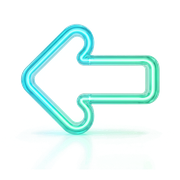
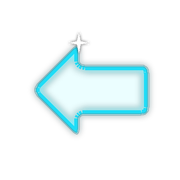
feat: make arrows calmer with diamond star sparkle, remove floor shade, enlarge modal photos, and unify arrows across all app carousels

Changed region(s): [[0.1111, 0.1111, 0.8889, 0.8611]]

diff --git a/public/styles.css b/public/styles.css
@@ -2543,10 +2543,10 @@ body {
   transform: translateY(-50%);
   width: 40px;
   height: 40px;
-  background: rgba(10, 14, 20, 0.28);
-  backdrop-filter: blur(8px);
-  -webkit-backdrop-filter: blur(8px);
-  border: 1px solid rgba(255, 255, 255, 0.12);
+  background: rgba(10, 14, 20, 0.22);
+  backdrop-filter: blur(6px);
+  -webkit-backdrop-filter: blur(6px);
+  border: none;
   border-radius: 50%;
   display: flex;
   align-items: center;
@@ -2554,7 +2554,7 @@ body {
   cursor: pointer;
   z-index: 5;
   transition: all 0.22s cubic-bezier(0.16, 1, 0.3, 1);
-  box-shadow: 0 4px 14px rgba(0, 0, 0, 0.4);
+  box-shadow: 0 4px 12px rgba(0, 0, 0, 0.35);
   opacity: 0;
   padding: 0;
 }
@@ -2564,10 +2564,9 @@ body {
 }
 
 .prop-carousel-btn:hover {
-  background: rgba(10, 14, 20, 0.55);
-  border-color: rgba(0, 242, 254, 0.45);
+  background: rgba(10, 14, 20, 0.52);
   transform: translateY(-50%) scale(1.15);
-  box-shadow: 0 6px 18px rgba(0, 0, 0, 0.55), 0 0 14px rgba(0, 242, 254, 0.4);
+  box-shadow: 0 6px 16px rgba(0, 0, 0, 0.5);
 }
 
 .prop-carousel-arrow-glass {
@@ -2699,7 +2698,8 @@ body {
 
 /* Detail Modal Styles */
 .property-modal-card {
-  max-width: 860px;
+  max-width: 1040px;
+  width: 92vw;
 }
 
 .prop-gallery-wrapper {
@@ -2708,11 +2708,18 @@ body {
 
 .prop-main-photo-wrap {
   width: 100%;
-  aspect-ratio: 16 / 9;
-  border-radius: 14px;
+  height: 500px;
+  max-height: 520px;
+  border-radius: 16px;
   overflow: hidden;
   position: relative;
   background: #0f1013;
+}
+
+@media (max-width: 768px) {
+  .prop-main-photo-wrap {
+    height: 320px;
+  }
 }
 
 .prop-main-photo-wrap img {
@@ -2725,23 +2732,36 @@ body {
   position: absolute;
   top: 50%;
   transform: translateY(-50%);
-  width: 40px;
-  height: 40px;
+  width: 44px;
+  height: 44px;
   border-radius: 50%;
-  background: rgba(0, 0, 0, 0.65);
+  background: rgba(10, 14, 20, 0.24);
   backdrop-filter: blur(8px);
-  color: #ffffff;
-  border: 1px solid rgba(255, 255, 255, 0.2);
+  -webkit-backdrop-filter: blur(8px);
+  border: none;
   display: flex;
   align-items: center;
   justify-content: center;
-  font-size: 1.5rem;
   cursor: pointer;
-  z-index: 3;
+  z-index: 4;
+  padding: 0;
+  transition: all 0.22s cubic-bezier(0.16, 1, 0.3, 1);
+  box-shadow: 0 4px 14px rgba(0, 0, 0, 0.35);
+}
+
+.gallery-nav-btn:hover {
+  background: rgba(10, 14, 20, 0.55);
+  transform: translateY(-50%) scale(1.15);
+  box-shadow: 0 6px 18px rgba(0, 0, 0, 0.5);
 }
 
 .gallery-nav-btn.prev-btn { left: 1rem; }
 .gallery-nav-btn.next-btn { right: 1rem; }
+
+.gallery-nav-btn .prop-carousel-arrow-glass {
+  width: 30px;
+  height: 30px;
+}
 
 .photo-counter-badge {
   position: absolute;
@@ -4626,26 +4646,27 @@ body {
   position: absolute;
   top: 50%;
   transform: translateY(-50%);
-  width: 38px;
-  height: 38px;
+  width: 40px;
+  height: 40px;
   border-radius: 50%;
-  background: rgba(0, 0, 0, 0.65);
-  backdrop-filter: blur(8px);
-  color: #ffffff;
-  border: 1px solid rgba(255, 255, 255, 0.2);
+  background: rgba(10, 14, 20, 0.22);
+  backdrop-filter: blur(6px);
+  -webkit-backdrop-filter: blur(6px);
+  border: none;
   display: flex;
   align-items: center;
   justify-content: center;
-  font-size: 1.3rem;
   cursor: pointer;
-  transition: all 0.15s ease;
+  transition: all 0.2s ease;
   z-index: 5;
+  padding: 0;
+  box-shadow: 0 4px 12px rgba(0, 0, 0, 0.35);
 }
 
 .carousel-arrow:hover {
-  background: rgba(0, 0, 0, 0.9);
-  border-color: rgba(255, 255, 255, 0.5);
-  transform: translateY(-50%) scale(1.06);
+  background: rgba(10, 14, 20, 0.52);
+  transform: translateY(-50%) scale(1.15);
+  box-shadow: 0 6px 16px rgba(0, 0, 0, 0.5);
 }
 
 .carousel-arrow-left {

diff --git a/mobile/src/screens/InvestmentsScreen.tsx b/mobile/src/screens/InvestmentsScreen.tsx
@@ -1276,6 +1276,38 @@ export const InvestmentsScreen: React.FC = () => {
                   cachePolicy="memory-disk"
                   priority="high"
                 />
+                {selectedListing.images && selectedListing.images.length > 1 && (
+                  <>
+                    <TouchableOpacity
+                      style={[styles.carouselBtn, styles.carouselPrevBtn, { zIndex: 6 }]}
+                      onPress={() =>
+                        setActivePhotoIndex(
+                          (activePhotoIndex - 1 + selectedListing.images.length) % selectedListing.images.length
+                        )
+                      }
+                      activeOpacity={0.7}
+                    >
+                      <Image
+                        source={{ uri: `${API_BASE_URL}/investments/icons/arrow_left_glass.png` }}
+                        style={{ width: 26, height: 26, resizeMode: 'contain' }}
+                      />
+                    </TouchableOpacity>
+                    <TouchableOpacity
+                      style={[styles.carouselBtn, styles.carouselNextBtn, { zIndex: 6 }]}
+                      onPress={() =>
+                        setActivePhotoIndex(
+                          (activePhotoIndex + 1) % selectedListing.images.length
+                        )
+                      }
+                      activeOpacity={0.7}
+                    >
+                      <Image
+                        source={{ uri: `${API_BASE_URL}/investments/icons/arrow_right_glass.png` }}
+                        style={{ width: 26, height: 26, resizeMode: 'contain' }}
+                      />
+                    </TouchableOpacity>
+                  </>
+                )}
                 <View style={styles.galleryIndexBadge}>
                   <Text style={styles.galleryIndexText}>
                     {activePhotoIndex + 1} / {selectedListing.images ? selectedListing.images.length : 1}
@@ -2421,15 +2453,13 @@ const styles = StyleSheet.create({
     width: 38,
     height: 38,
     borderRadius: 19,
-    backgroundColor: 'rgba(10, 14, 20, 0.32)',
-    borderWidth: 1,
-    borderColor: 'rgba(255, 255, 255, 0.12)',
+    backgroundColor: 'rgba(10, 14, 20, 0.22)',
     alignItems: 'center',
     justifyContent: 'center',
     zIndex: 5,
     shadowColor: '#00f2fe',
     shadowOffset: { width: 0, height: 2 },
-    shadowOpacity: 0.3,
+    shadowOpacity: 0.25,
     shadowRadius: 5,
     elevation: 4,
   },
@@ -2880,7 +2910,7 @@ const styles = StyleSheet.create({
   },
   galleryPrimaryImage: {
     width: '100%',
-    height: 260,
+    height: 330,
     resizeMode: 'cover',
   },
   galleryIndexBadge: {

diff --git a/public/app.js b/public/app.js
@@ -451,8 +451,8 @@ function renderCommunityFeed() {
                ontouchend="handleCarouselTouchEnd(event, '${post.id}')">
             <img src="${activePhoto.url}" alt="Post photo" class="community-carousel-img">
             ${hasMultiple ? `
-              <button type="button" class="carousel-arrow carousel-arrow-left" onclick="handleCommunityPhotoPrev('${post.id}')" title="Previous photo"><svg width="14" height="14" viewBox="0 0 20 20" fill="none" stroke="currentColor" stroke-width="2" stroke-linecap="round" stroke-linejoin="round"><path d="M14 10H6M10 6l-4 4 4 4"/></svg></button>
-              <button type="button" class="carousel-arrow carousel-arrow-right" onclick="handleCommunityPhotoNext('${post.id}')" title="Next photo"><svg width="14" height="14" viewBox="0 0 20 20" fill="none" stroke="currentColor" stroke-width="2" stroke-linecap="round" stroke-linejoin="round"><path d="M6 10h8M10 6l4 4-4 4"/></svg></button>
+              <button type="button" class="carousel-arrow carousel-arrow-left" onclick="handleCommunityPhotoPrev('${post.id}')" title="Previous photo"><img src="/investments/icons/arrow_left_glass.png" class="prop-carousel-arrow-glass" alt="‹"></button>
+              <button type="button" class="carousel-arrow carousel-arrow-right" onclick="handleCommunityPhotoNext('${post.id}')" title="Next photo"><img src="/investments/icons/arrow_right_glass.png" class="prop-carousel-arrow-glass" alt="›"></button>
               <div class="carousel-counter-badge">
                 <span>${curIdx + 1} / ${photoAttachments.length}</span>
               </div>

diff --git a/public/index.html b/public/index.html
@@ -1231,9 +1231,13 @@
         <!-- Main Image Gallery with Carousel Arrows & Thumbnails -->
         <div class="prop-gallery-wrapper">
           <div class="prop-main-photo-wrap">
-            <button class="gallery-nav-btn prev-btn" onclick="prevPropModalPhoto()">‹</button>
+            <button class="gallery-nav-btn prev-btn" onclick="prevPropModalPhoto()" title="Previous photo">
+              <img src="/investments/icons/arrow_left_glass.png" class="prop-carousel-arrow-glass" alt="‹">
+            </button>
             <img id="propModalMainPhoto" src="" alt="Property Photo">
-            <button class="gallery-nav-btn next-btn" onclick="nextPropModalPhoto()">›</button>
+            <button class="gallery-nav-btn next-btn" onclick="nextPropModalPhoto()" title="Next photo">
+              <img src="/investments/icons/arrow_right_glass.png" class="prop-carousel-arrow-glass" alt="›">
+            </button>
             <div id="propModalPhotoCount" class="photo-counter-badge">1 / 1</div>
           </div>
           <div id="propModalThumbnails" class="prop-thumbnails-row"></div>

diff --git a/tools/process_filter_icons.py b/tools/process_filter_icons.py
@@ -70,49 +70,92 @@ for name, src in icon_mapping.items():
     mobile_out = os.path.join(mobile_dir, name)
     remove_white_bg(src, mobile_out)
 
-# Process 3D translucent glass neon contour arrows
-from PIL import ImageOps
-src_arrow = '/Users/bikram6am/.gemini/antigravity-ide/brain/e937d090-7538-4833-bb53-358d42566df1/arrow_left_glass_neon_1791741342305.jpg'
-if os.path.exists(src_arrow):
-    im_left = Image.open(src_arrow).convert('RGBA')
-    im_right = ImageOps.mirror(im_left)
+# Process 3D translucent glass neon contour arrows with diamond star sparkle (NO floor shade/reflection)
+import math
+from PIL import ImageDraw, ImageFilter, ImageOps
 
-    def process_clean_arrow(img, out_name):
-        arr = np.array(img, dtype=np.float32)
-        r, g, b = arr[:,:,0], arr[:,:,1], arr[:,:,2]
-        max_c = np.maximum(np.maximum(r, g), b)
-        min_c = np.minimum(np.minimum(r, g), b)
-        chroma = max_c - min_c
-        darkness = 255.0 - ((r + g + b) / 3.0)
-        tube_weight = np.clip((chroma - 8.0) / 15.0, 0, 1)
-        dark_weight = np.clip((darkness - 15.0) / 25.0, 0, 1)
-        strength = np.maximum(tube_weight, dark_weight)
-        alpha = np.clip(strength * 255.0, 0, 255)
-        arr[:,:,3] = alpha
-        result = Image.fromarray(arr.astype(np.uint8), mode='RGBA')
-        bbox = result.getbbox()
-        if bbox:
-            w = bbox[2] - bbox[0]
-            h = bbox[3] - bbox[1]
-            pad = int(max(w, h) * 0.03)
-            crop_box = (
-                max(0, bbox[0] - pad),
-                max(0, bbox[1] - pad),
-                min(result.width, bbox[2] + pad),
-                min(result.height, bbox[3] + pad)
-            )
-            result = result.crop(crop_box)
-        target_size = (180, 180)
-        max_dim = max(result.width, result.height)
-        square_im = Image.new('RGBA', (max_dim, max_dim), (0, 0, 0, 0))
-        offset = ((max_dim - result.width) // 2, (max_dim - result.height) // 2)
-        square_im.paste(result, offset)
-        final_im = square_im.resize(target_size, Image.Resampling.LANCZOS)
-        final_im.save(os.path.join(dest_dir, out_name), format='PNG', optimize=True)
-        final_im.save(os.path.join(mobile_dir, out_name), format='PNG', optimize=True)
-        print(f"Processed: {out_name}")
+def create_glass_sparkle_arrow(is_left=True):
+    W, H = 400, 400
+    im = Image.new('RGBA', (W, H), (0, 0, 0, 0))
+    
+    def fillet_points():
+        anchors = [
+            (175, 95),   # 0: top fin
+            (70, 200),   # 1: tip
+            (175, 305),  # 2: bottom fin
+            (175, 255),  # 3: bottom neck
+            (330, 255),  # 4: bottom right
+            (330, 145),  # 5: top right
+            (175, 145)   # 6: top neck
+        ]
+        radii = [18, 22, 18, 14, 18, 18, 14]
+        dense_pts = []
+        n = len(anchors)
+        for i in range(n):
+            p_prev = anchors[(i - 1) % n]
+            p_curr = anchors[i]
+            p_next = anchors[(i + 1) % n]
+            v1 = (p_prev[0] - p_curr[0], p_prev[1] - p_curr[1])
+            v2 = (p_next[0] - p_curr[0], p_next[1] - p_curr[1])
+            l1 = math.hypot(*v1)
+            l2 = math.hypot(*v2)
+            u1 = (v1[0]/l1, v1[1]/l1)
+            u2 = (v2[0]/l2, v2[1]/l2)
+            r = min(radii[i], l1*0.4, l2*0.4)
+            p_start = (p_curr[0] + u1[0]*r, p_curr[1] + u1[1]*r)
+            p_end = (p_curr[0] + u2[0]*r, p_curr[1] + u2[1]*r)
+            for t in np.linspace(0, 1, 10):
+                bx = (1-t)**2 * p_start[0] + 2*(1-t)*t * p_curr[0] + t**2 * p_end[0]
+                by = (1-t)**2 * p_start[1] + 2*(1-t)*t * p_curr[1] + t**2 * p_end[1]
+                dense_pts.append((bx, by))
+        return dense_pts
 
-    process_clean_arrow(im_left, 'arrow_left_glass.png')
-    process_clean_arrow(im_right, 'arrow_right_glass.png')
+    pts = fillet_points()
+    
+    glow = Image.new('RGBA', (W, H), (0, 0, 0, 0))
+    d_glow = ImageDraw.Draw(glow)
+    d_glow.polygon(pts, outline=(0, 229, 255, 120), width=16)
+    glow = glow.filter(ImageFilter.GaussianBlur(7))
+    
+    tube = Image.new('RGBA', (W, H), (0, 0, 0, 0))
+    d_tube = ImageDraw.Draw(tube)
+    d_tube.polygon(pts, fill=(0, 240, 255, 20), outline=(0, 220, 250, 210), width=11)
+    
+    rim = Image.new('RGBA', (W, H), (0, 0, 0, 0))
+    d_rim = ImageDraw.Draw(rim)
+    d_rim.polygon(pts, outline=(255, 255, 255, 230), width=3)
+    rim = rim.filter(ImageFilter.GaussianBlur(1))
+    
+    base = Image.alpha_composite(glow, tube)
+    base = Image.alpha_composite(base, rim)
+    
+    # Delicate 4-pointed luxury diamond sparkle at the top fin
+    sp = Image.new('RGBA', (W, H), (0, 0, 0, 0))
+    d_sp = ImageDraw.Draw(sp)
+    cx, cy, r = 175, 95, 22
+    ir = r * 0.16
+    star_pts = [
+        (cx, cy - r), (cx + ir, cy - ir), (cx + r, cy), (cx + ir, cy + ir),
+        (cx, cy + r), (cx - ir, cy + ir), (cx - r, cy), (cx - ir, cy - ir)
+    ]
+    d_sp.polygon(star_pts, fill=(255, 255, 255, 255))
+    d_sp.ellipse([cx-ir*1.2, cy-ir*1.2, cx+ir*1.2, cy+ir*1.2], fill=(255, 255, 255, 255))
+    sp_glow = sp.filter(ImageFilter.GaussianBlur(3))
+    
+    final_arrow = Image.alpha_composite(base, sp_glow)
+    final_arrow = Image.alpha_composite(final_arrow, sp)
+    
+    if not is_left:
+        final_arrow = ImageOps.mirror(final_arrow)
+        
+    return final_arrow.resize((180, 180), Image.Resampling.LANCZOS)
 
-print("All filter and arrow icons successfully generated and saved!")
+left_arrow = create_glass_sparkle_arrow(is_left=True)
+right_arrow = create_glass_sparkle_arrow(is_left=False)
+
+left_arrow.save(os.path.join(dest_dir, 'arrow_left_glass.png'), optimize=True)
+right_arrow.save(os.path.join(dest_dir, 'arrow_right_glass.png'), optimize=True)
+left_arrow.save(os.path.join(mobile_dir, 'arrow_left_glass.png'), optimize=True)
+right_arrow.save(os.path.join(mobile_dir, 'arrow_right_glass.png'), optimize=True)
+
+print("All filter and glass sparkle arrow icons successfully generated and saved!")
